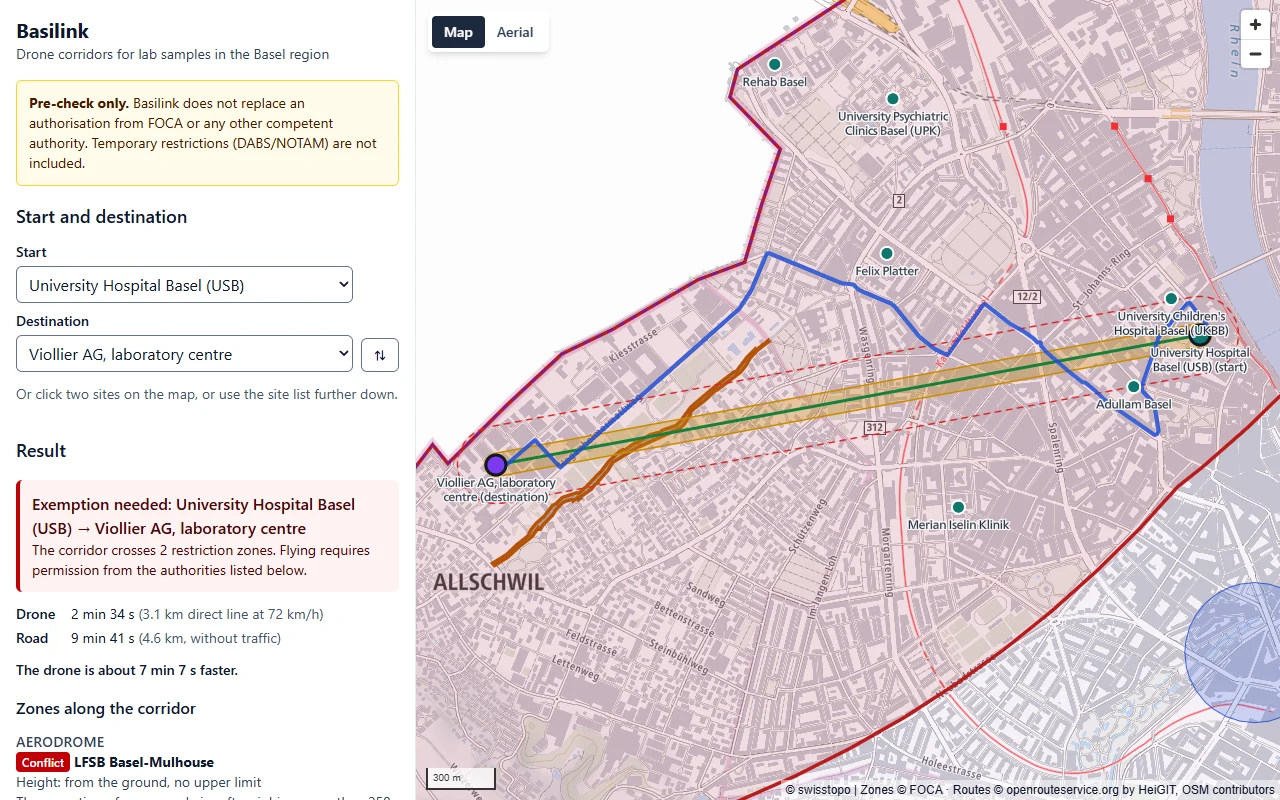
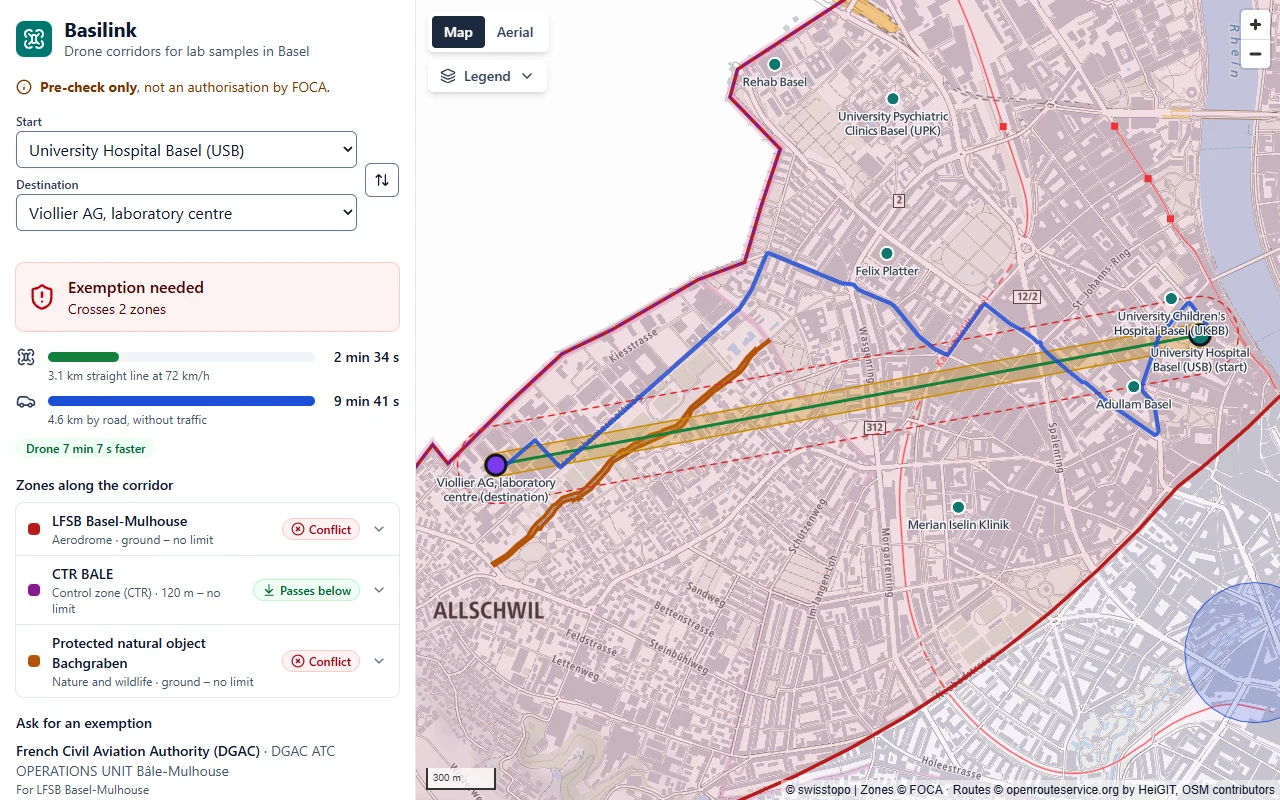
docs: record the UI cleanup (D25) and refresh screenshots

diff --git a/docs/decisions.md b/docs/decisions.md
@@ -318,3 +318,25 @@ Supersedes D15. The owner connected the repository to Vercel (Hobby plan).
   browser.
 - Both update workflows run `npm test` before they commit new data. A broken update fails the
   workflow and never reaches the site.
+
+## 2026-11-23 – UI cleanup
+
+### D25 Show, don't describe
+
+The owner asked for a cleaner UI: not everything has to be text, and not every detail has to be
+explained. The panel was about 5,000 px long on a desktop; the core (pair, verdict, times, zones)
+now fits on one screen.
+
+- **Visuals instead of sentences:** the verdict is a badge with an icon, drone vs. car are two bars
+  in the map colours, zones are compact rows (category colour, height range, status badge), and
+  the checked volume is an SVG cross-section instead of a table with explanations.
+- **Details on demand:** restriction texts, ground risk buffer zones, the assumptions and the site
+  list open with native `<details>` elements. The legend and the zone switch moved onto the map.
+- **Short copy:** one-line disclaimer, short labels and hints. The reasons behind the defaults stay
+  in this log (D17) and are linked from the app through the SORA and Matternet links.
+- **Still accessible:** every visual has a text equivalent (screen reader text, `aria-label` on
+  the cross-section), status badges combine colour, icon and word, and axe-core reports no
+  violations in the four checked states (D23).
+- **Icons:** [`@lucide/vue`](https://lucide.dev) (ISC licence), pinned to an exact version. Only
+  the imported icons end up in the bundle (about 5 KB gzipped). Icons without a label are
+  hidden from screen readers by the library.

diff --git a/CLAUDE.md b/CLAUDE.md
@@ -72,6 +72,8 @@ A lower-case `d:\` makes every test fail with "reading 'config'" (vitest#5251).
 - Secrets (e.g. `ORS_API_KEY`) are only used by scripts in GitHub Actions or from `.env.local`.
   Never ship them to the browser, and never give a secret the `VITE_` prefix (Vite inlines those
   into the bundle).
+- UI copy is short. Prefer visuals (badges, bars, diagrams, icons) over prose, and put details in
+  `<details>` (D25). Every visual still needs a text equivalent for screen readers.
 - Default parameters must follow regulation and the SORA 2.5 method (D17). Every number in the
   UI is labelled as an assumption and names its source.
 
